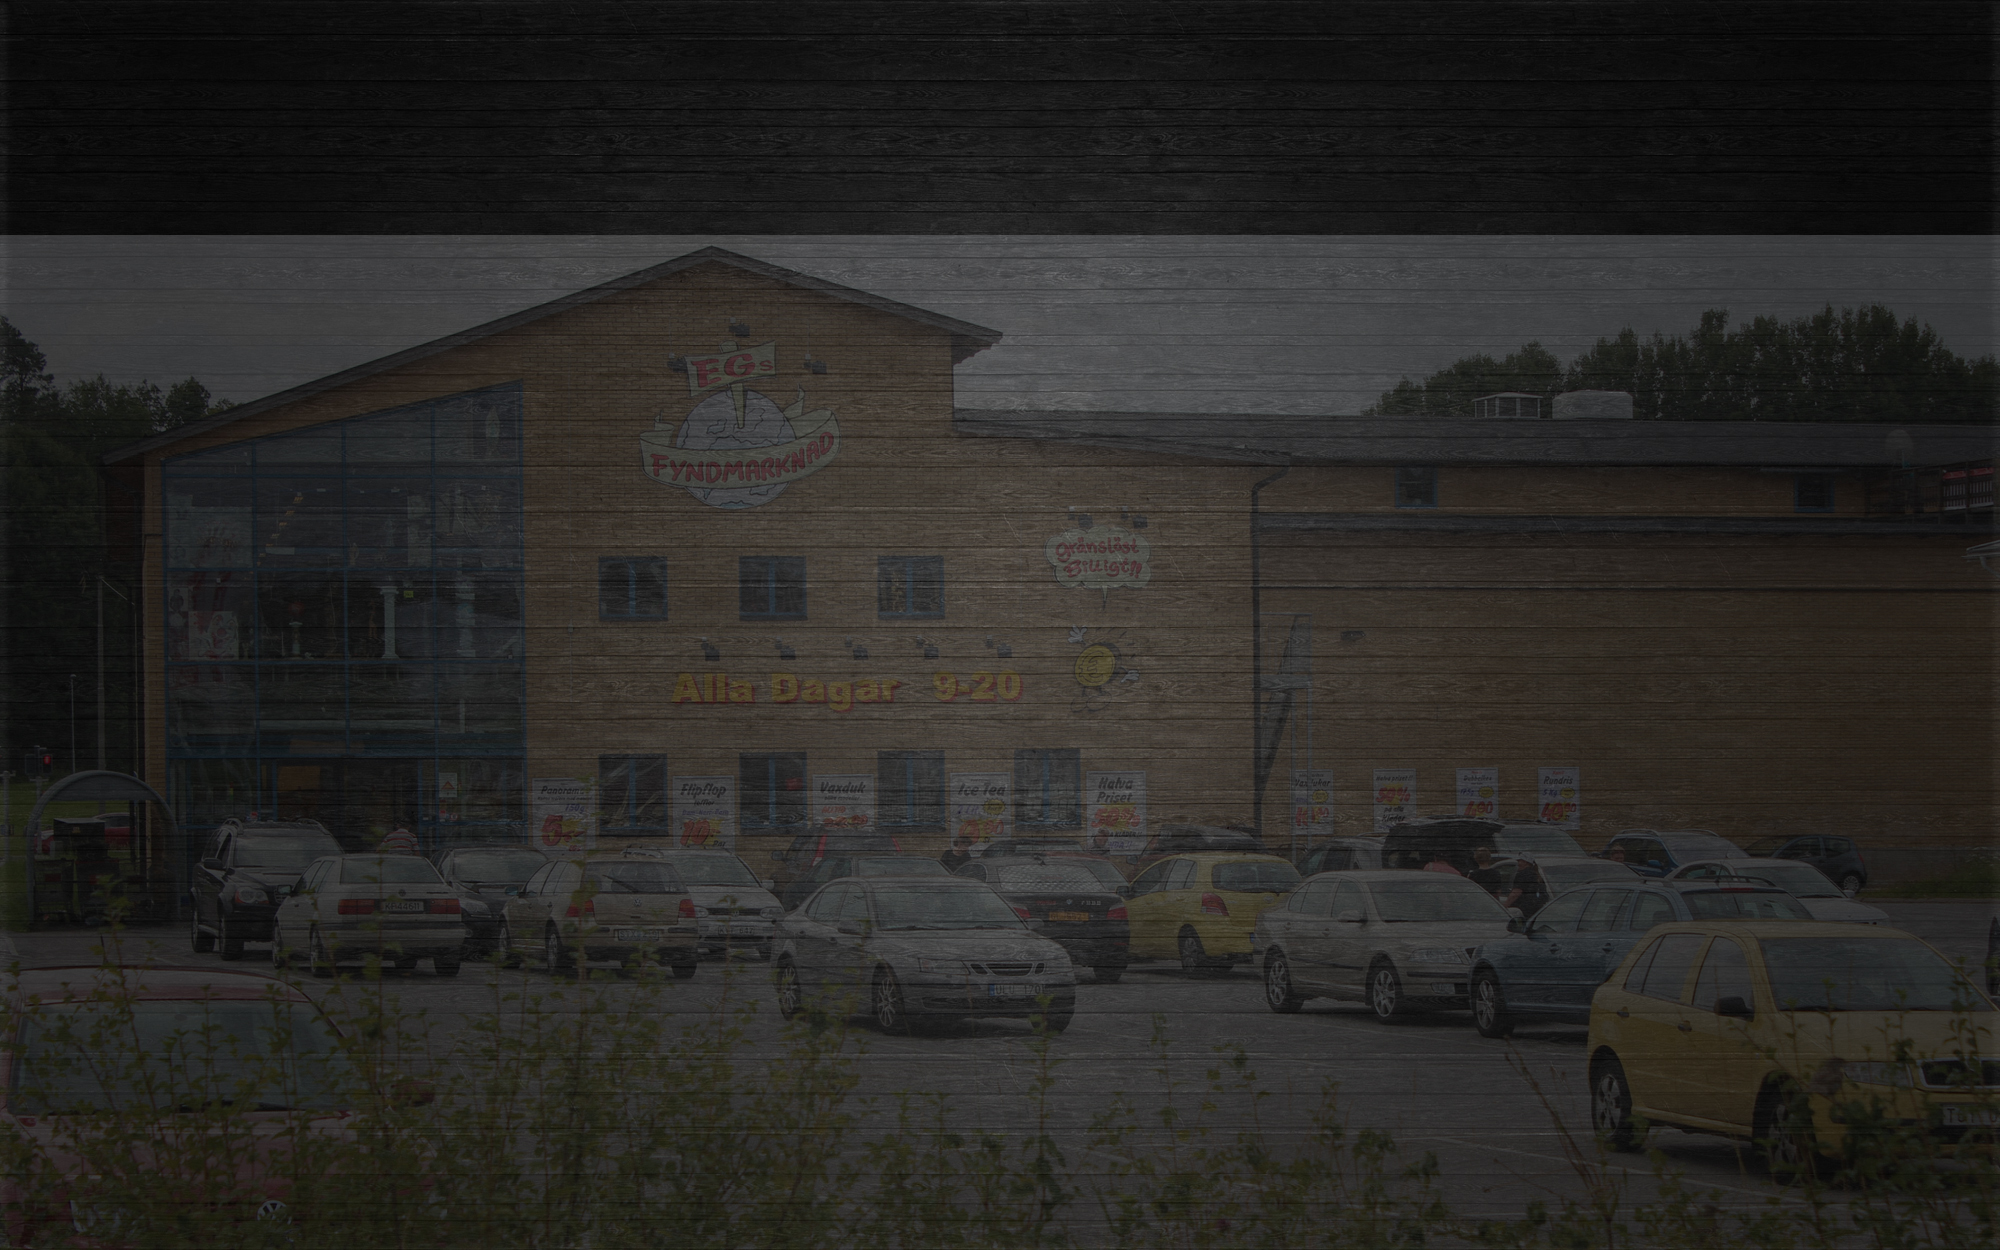
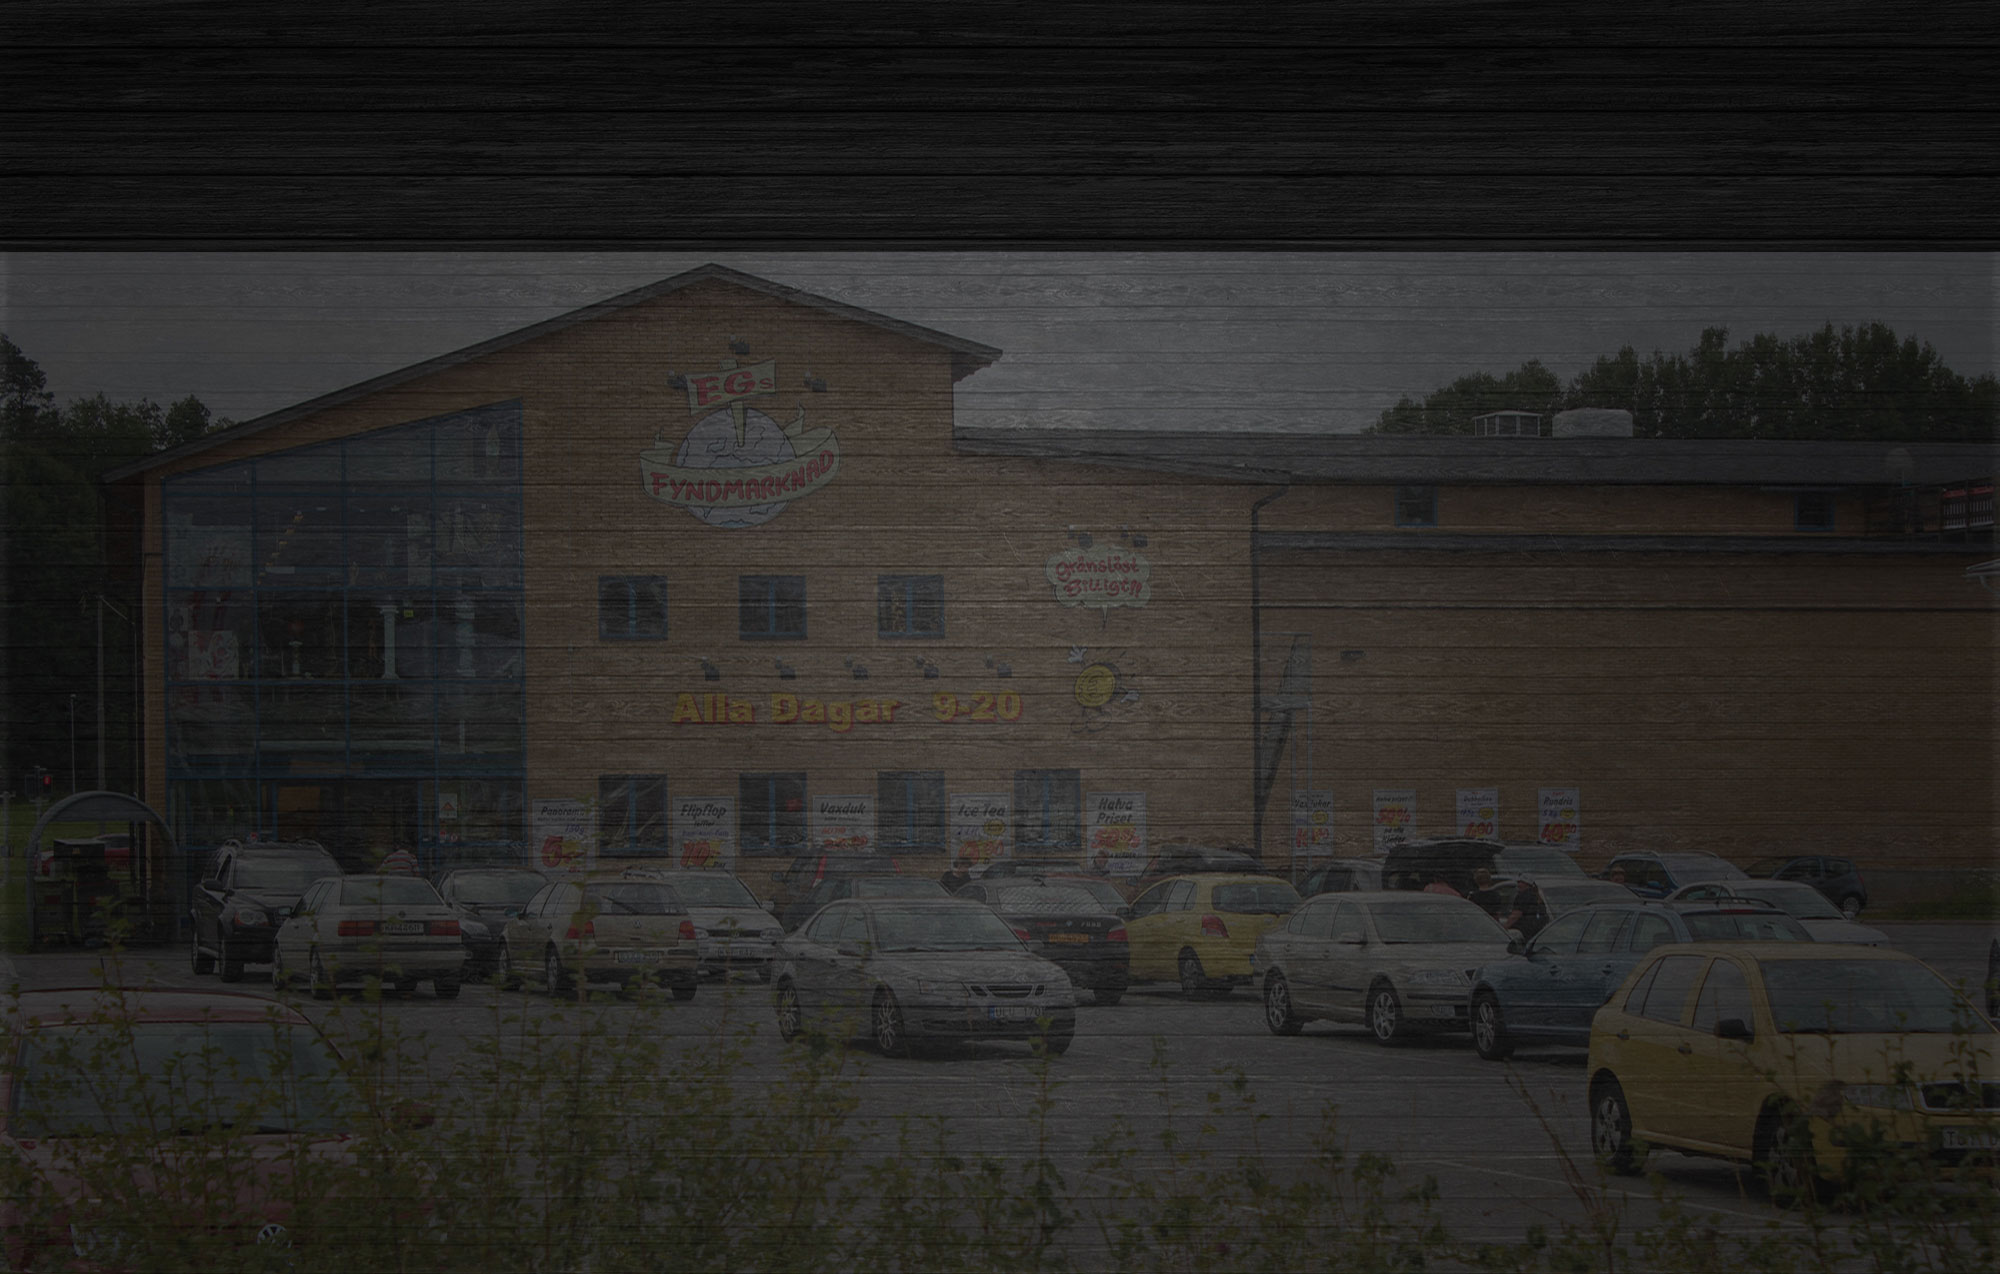
updatess

diff --git a/egs.nu/www/outletsida/outlet.html b/egs.nu/www/outletsida/outlet.html
@@ -64,7 +64,10 @@ $(document).ready(function(){
 
     <style type="text/css">
 <!--
-
+body {
+	background-image: url(../slide.png);
+	background-size: 100% auto;
+}
 .style11 {
 	font-size: 10px;
 	font-family: Arial, Helvetica, sans-serif;
@@ -109,8 +112,8 @@ function MM_preloadImages() { //v3.0
     <td>&nbsp;</td>
   </tr>
   <tr>
-    <td background="../bgmeny.png">&nbsp;</td>
-    <td height="23" background="../bgmeny.png">
+    <td background="../bgmeny1.png">&nbsp;</td>
+    <td height="23" background="../bgmeny1.png">
 	<table align="center" width="100%" border="0" cellpadding="0" cellspacing="0">
 	<tr>
 	<td align="center">
@@ -127,7 +130,8 @@ function MM_preloadImages() { //v3.0
 	</td>
 	</tr>
     </table>
-    <td background="../bgmeny.png">&nbsp;</td>
+	</td>
+    <td background="../bgmeny1.png">&nbsp;</td>
   </tr>
   <tr>
     <td>&nbsp;</td>

diff --git a/egs.nu/www/fragor.html b/egs.nu/www/fragor.html
@@ -47,8 +47,8 @@ a:hover {
 	text-decoration: none;
 }
 body {
-	background-image: url(bg1.jpg);
-	background-repeat: repeat-y;
+	background-image: url(slide.png);
+	background-size: 100% auto;
 }
 a:link {
 	color: #FFFFFF;
@@ -100,8 +100,8 @@ function MM_preloadImages() { //v3.0
     <td>&nbsp;</td>
   </tr>
   <tr>
-    <td background="bgmeny.png">&nbsp;</td>
-    <td height="23" background="bgmeny.png">
+    <td background="bgmeny1.png">&nbsp;</td>
+    <td height="23" background="bgmeny1.png">
 	<table align="center" width="100%" border="0" cellpadding="0" cellspacing="0">
 	<tr>
 	<td align="center">
@@ -118,7 +118,8 @@ function MM_preloadImages() { //v3.0
 	</td>
 	</tr>
     </table>
-    <td background="bgmeny.png">&nbsp;</td>
+	</td>
+    <td background="bgmeny1.png">&nbsp;</td>
   </tr>
   <tr>
     <td>&nbsp;</td>

diff --git a/egs.nu/www/hitta.html b/egs.nu/www/hitta.html
@@ -47,8 +47,8 @@ a:hover {
 	text-decoration: none;
 }
 body {
-	background-image: url(bg1.jpg);
-	background-repeat: repeat-y;
+	background-image: url(slide.png);
+	background-size: 100% auto;
 }
 a:link {
 	color: #FFFFFF;
@@ -106,8 +106,8 @@ function MM_preloadImages() { //v3.0
     <td>&nbsp;</td>
   </tr>
   <tr>
-    <td background="bgmeny.png">&nbsp;</td>
-    <td height="23" background="bgmeny.png">
+    <td background="bgmeny1.png">&nbsp;</td>
+    <td height="23" background="bgmeny1.png">
 	<table align="center" width="100%" border="0" cellpadding="0" cellspacing="0">
 	<tr>
 	<td align="center">
@@ -124,7 +124,8 @@ function MM_preloadImages() { //v3.0
 	</td>
 	</tr>
     </table>
-    <td background="bgmeny.png">&nbsp;</td>
+	</td>
+    <td background="bgmeny1.png">&nbsp;</td>
   </tr>
   <tr>
     <td>&nbsp;</td>

diff --git a/egs.nu/www/kontakt.html b/egs.nu/www/kontakt.html
@@ -47,8 +47,8 @@ a:hover {
 	text-decoration: none;
 }
 body {
-	background-image: url(bg1.jpg);
-	background-repeat: repeat-y;
+	background-image: url(slide.png);
+	background-size: 100% auto;
 }
 a:link {
 	color: #FFFFFF;
@@ -101,8 +101,8 @@ function MM_preloadImages() { //v3.0
     <td>&nbsp;</td>
   </tr>
   <tr>
-    <td background="bgmeny.png">&nbsp;</td>
-    <td height="23" background="bgmeny.png">
+    <td background="bgmeny1.png">&nbsp;</td>
+    <td height="23" background="bgmeny1.png">
 	<table align="center" width="100%" border="0" cellpadding="0" cellspacing="0">
 	<tr>
 	<td align="center">
@@ -119,7 +119,8 @@ function MM_preloadImages() { //v3.0
 	</td>
 	</tr>
     </table>
-    <td background="bgmeny.png">&nbsp;</td>
+	</td>
+    <td background="bgmeny1.png">&nbsp;</td>
   </tr>
   <tr>
     <td>&nbsp;</td>

diff --git a/egs.nu/www/galleri3.html b/egs.nu/www/galleri3.html
@@ -47,8 +47,8 @@ a:hover {
 	text-decoration: none;
 }
 body {
-	background-image: url(bg1.jpg);
-	background-repeat: repeat-y;
+	background-image: url(slide.png);
+	background-size: 100% auto;
 }
 a:link {
 	color: #FFFFFF;
@@ -98,8 +98,8 @@ function MM_preloadImages() { //v3.0
     <td>&nbsp;</td>
   </tr>
   <tr>
-    <td background="bgmeny.png">&nbsp;</td>
-    <td height="23" background="bgmeny.png">
+    <td background="bgmeny1.png">&nbsp;</td>
+    <td height="23" background="bgmeny1.png">
 	<table align="center" width="100%" border="0" cellpadding="0" cellspacing="0">
 	<tr>
 	<td align="center">
@@ -116,7 +116,8 @@ function MM_preloadImages() { //v3.0
 	</td>
 	</tr>
     </table>
-    <td background="bgmeny.png">&nbsp;</td>
+	</td>
+    <td background="bgmeny1.png">&nbsp;</td>
   </tr>
   <tr>
     <td>&nbsp;</td>

diff --git a/egs.nu/www/hem.html b/egs.nu/www/hem.html
@@ -114,8 +114,8 @@ function MM_preloadImages() { //v3.0
     <td>&nbsp;</td>
   </tr>
   <tr>
-    <td background="bgmeny.png">&nbsp;</td>
-    <td height="23" background="bgmeny.png">
+    <td background="bgmeny1.png">&nbsp;</td>
+    <td height="23" background="bgmeny1.png">
 	<table align="center" width="100%" border="0" cellpadding="0" cellspacing="0">
 	<tr>
 	<td align="center">
@@ -132,7 +132,8 @@ function MM_preloadImages() { //v3.0
 	</td>
 	</tr>
     </table>
-    <td background="bgmeny.png">&nbsp;</td>
+	</td>
+    <td background="bgmeny1.png">&nbsp;</td>
   </tr>
   <tr>
     <td>&nbsp;</td>

diff --git a/egs.nu/www/index.html b/egs.nu/www/index.html
@@ -86,8 +86,8 @@ function MM_preloadImages() { //v3.0
     <td>&nbsp;</td>
   </tr>
   <tr>
-    <td background="bgmeny.png">&nbsp;</td>
-    <td height="23" background="bgmeny.png">
+    <td background="bgmeny1.png">&nbsp;</td>
+    <td height="23" background="bgmeny1.png">
 	<table align="center" width="100%" border="0" cellpadding="0" cellspacing="0">
 	<tr>
 	<td align="center">
@@ -104,7 +104,8 @@ function MM_preloadImages() { //v3.0
 	</td>
 	</tr>
     </table>
-    <td background="bgmeny.png">&nbsp;</td>
+	</td>
+    <td background="bgmeny1.png">&nbsp;</td>
   </tr>
   <tr>
     <td>&nbsp;</td>

diff --git a/egs.nu/www/css/navbar.css b/egs.nu/www/css/navbar.css
@@ -1,6 +1,6 @@
-nav ul {
+nav ul {
+
 	-webkit-font-smoothing:antialiased;
-    background: #111111;
     list-style: none;
     margin: 0;
     padding: 0;
@@ -14,7 +14,7 @@ nav li {
     min-width: 16.66%;
 }
 nav a {
-    background: #111111;
+ 
     color: #fff;
     display: block;
     font: bold 16px/40px sans-serif;
